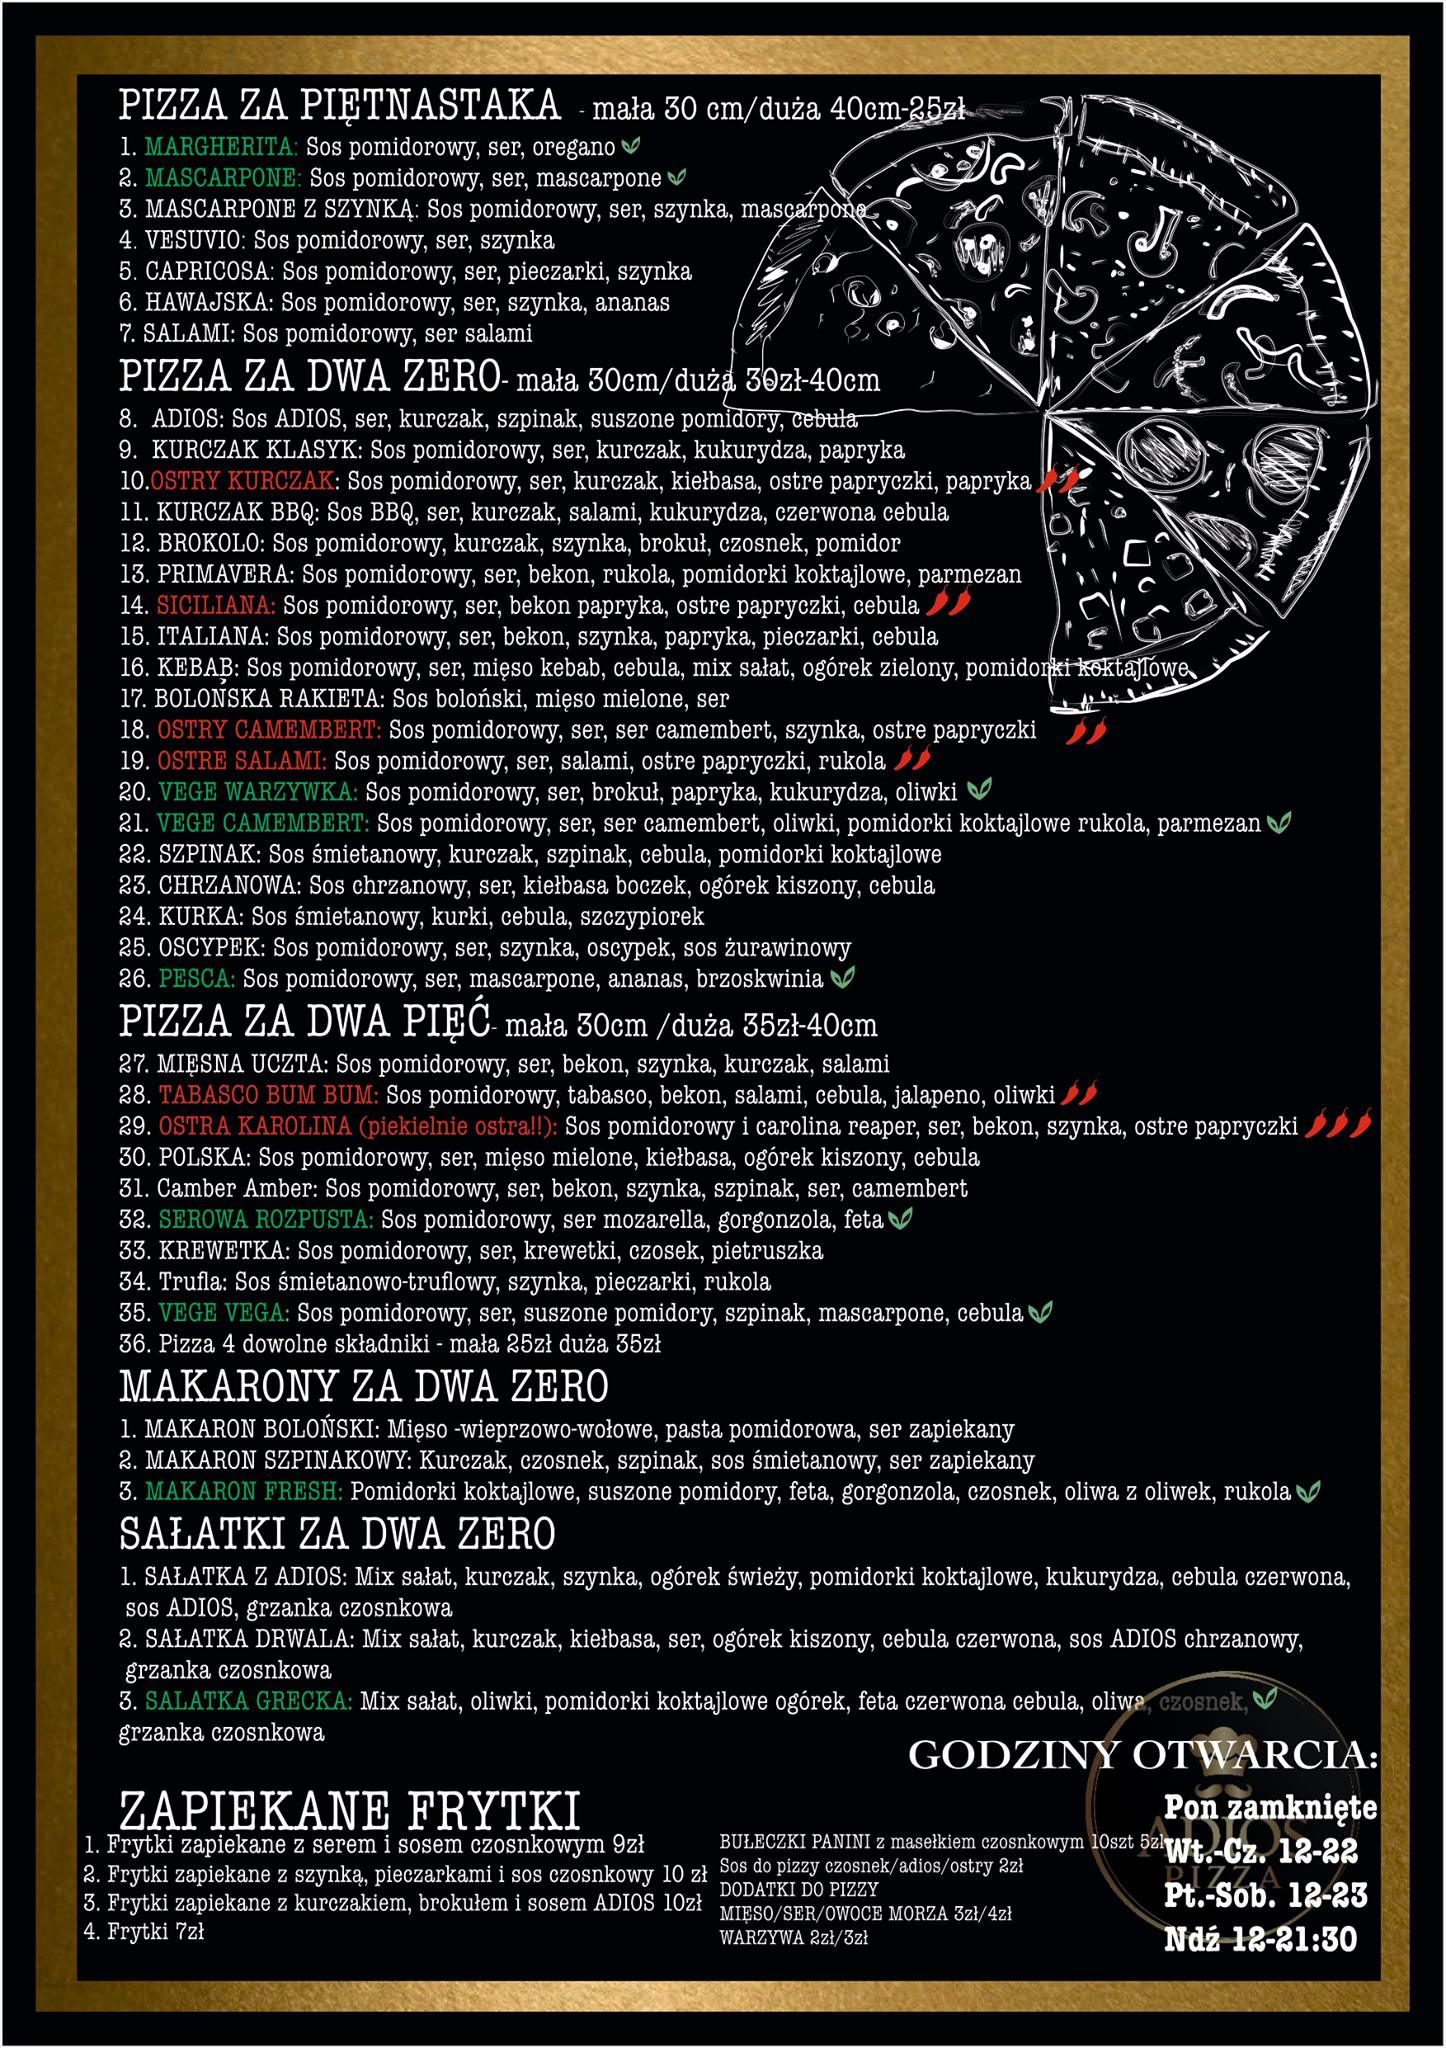
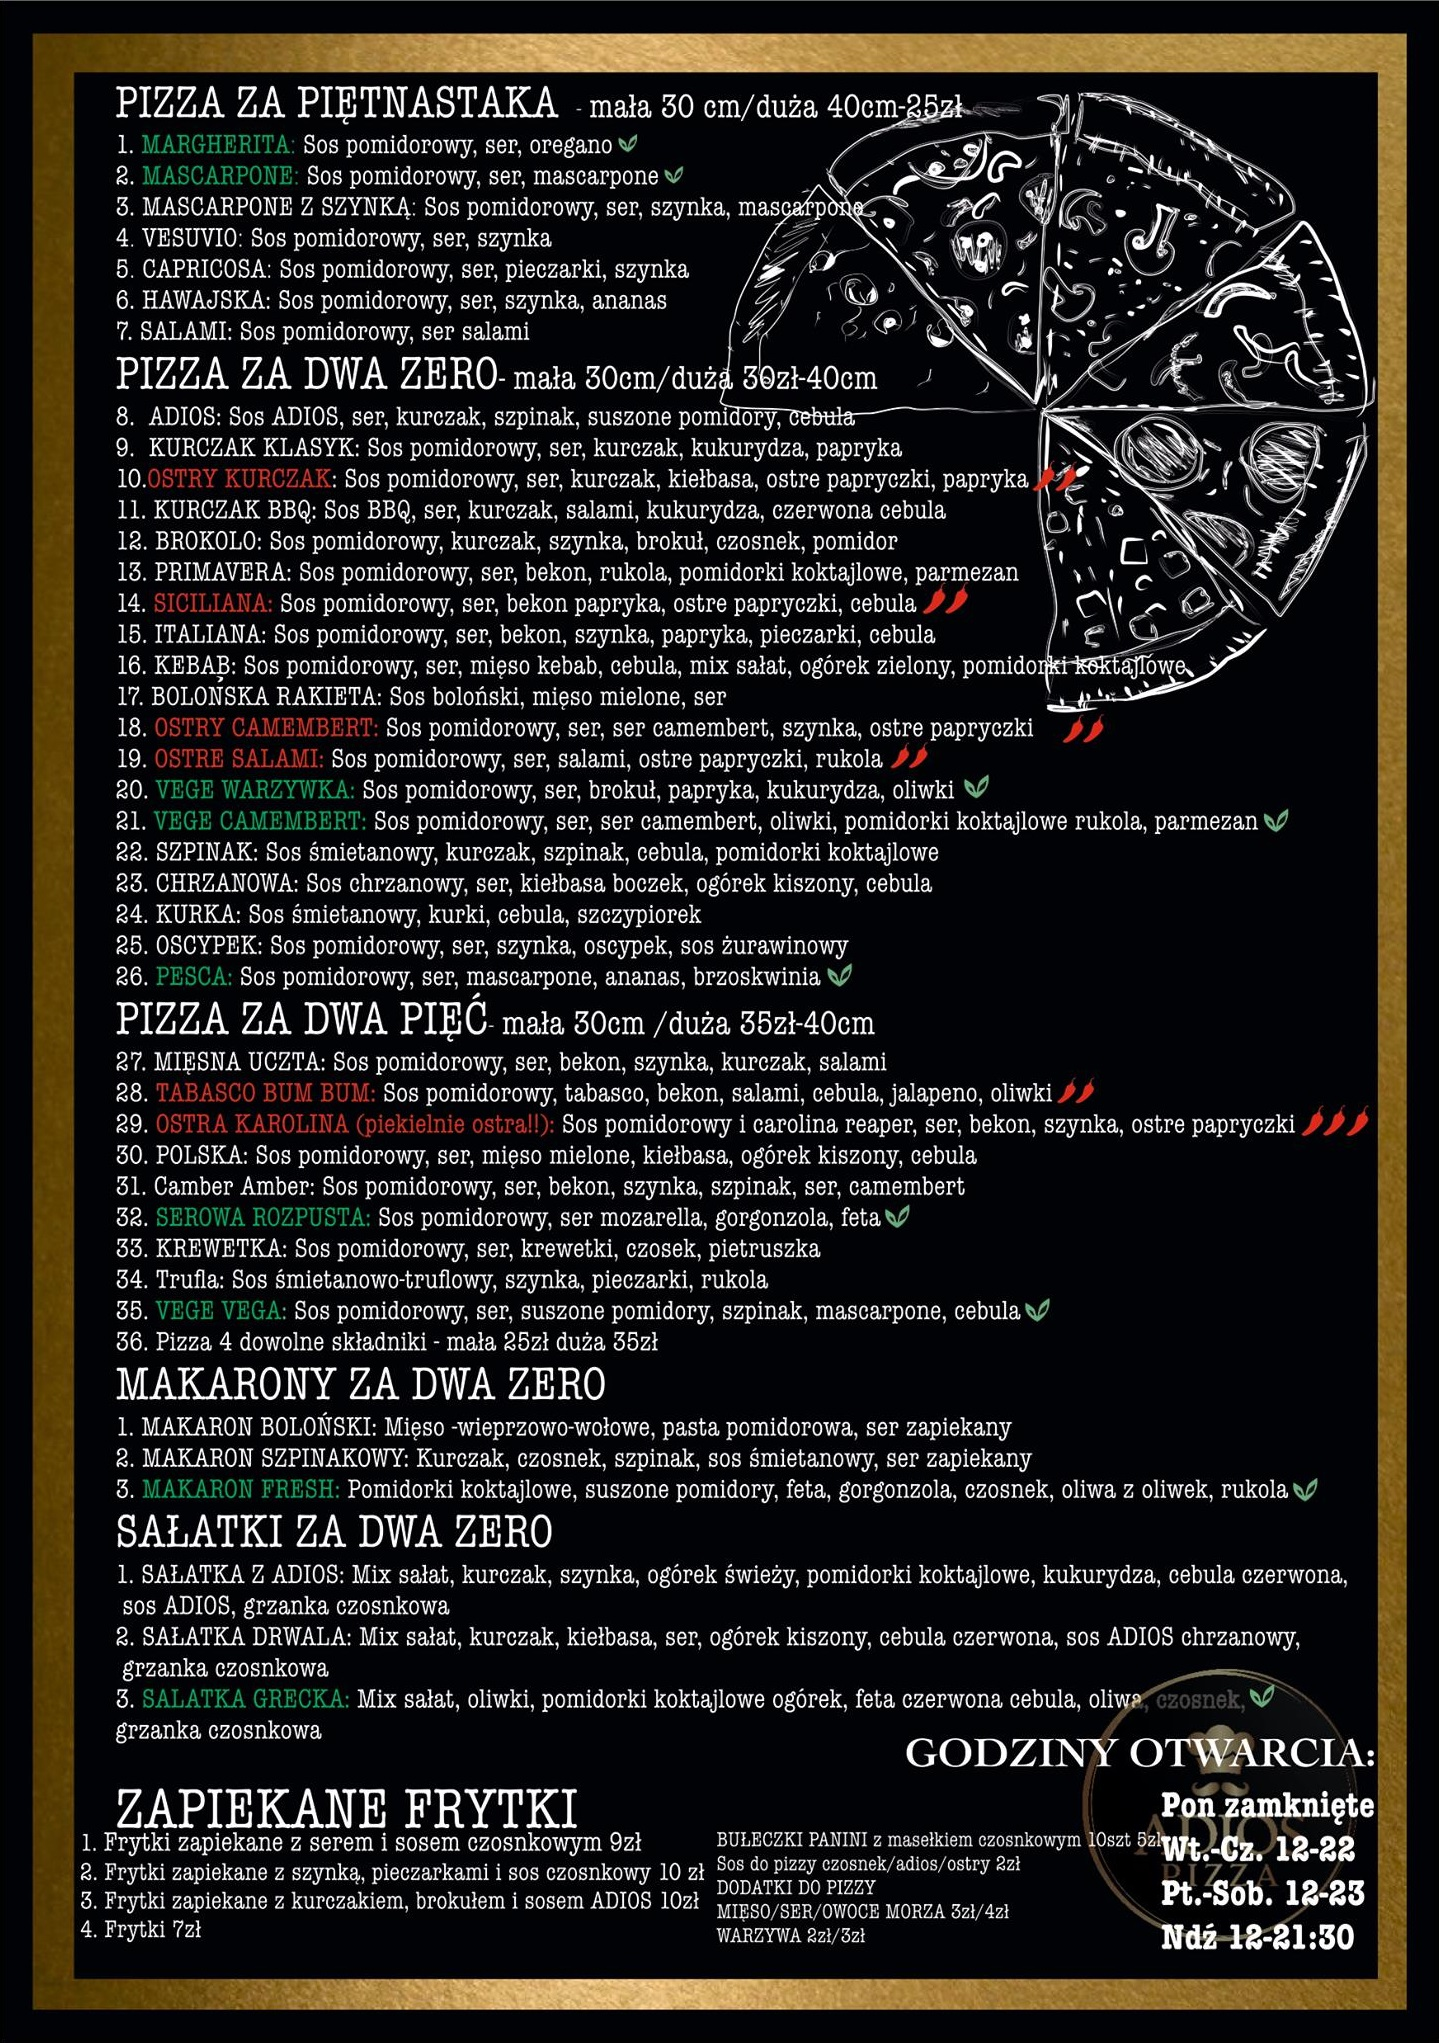
add menu

Changed region(s): [[0.0, 0.0, 1.0, 1.0]]

diff --git a/src/components/scss/_containerTransport.scss b/src/components/scss/_containerTransport.scss
@@ -2,7 +2,7 @@
   background-color: #151515;
   height: auto;
   width: 100vw;
-  margin: -1px auto 0;
+  margin: -5px auto 0;
   padding-bottom: 40px;
   display: block;
   text-align: center;
@@ -70,160 +70,53 @@ button:hover {
 
 @media all and (min-width: 500px) and (max-width: 800px) {
   .container-transport {
-    height: auto;
-    width: 100vw;
-    margin: -1px auto 0;
-    padding-bottom: 40px;
-    display: block;
-    text-align: center;
     span {
-      display: block;
-
-      color: rgb(224, 162, 68);
-      text-shadow: black 0.1em 0.1em 0.1em;
     }
     .text-transport {
-      font-family: "Caveat", cursive;
       font-size: 26px;
-      padding-top: 50px;
-      animation-name: example;
-      animation-duration: 2s;
-      position: relative;
     }
     .text-transport-citys {
       font-size: 35px;
-      font-weight: 900;
-      color: white;
-      font-family: "Lora", serif;
-      animation-name: example1;
-      animation-duration: 4s;
-      position: relative;
     }
   }
-
-  .container-photo-all {
-    img {
-      padding: 20px;
-      height: 200px;
-      width: 220px;
-      cursor: pointer;
-    }
-  }
-  .button-gallery {
-    margin-top: 20px;
-    color: white;
-    background-color: #e58b07;
-    width: 290px;
-    height: 30px;
-    font-size: 16px;
-    margin-left: 20px;
-    border: 1px solid gray;
-    border-radius: 4px;
-  }
+}
+.button-gallery {
+  margin-top: 20px;
+  width: 290px;
+  height: 30px;
+  font-size: 16px;
 }
 @media all and (min-width: 350px) and (max-width: 500px) {
   .container-transport {
-    height: auto;
-    width: 100vw;
-    margin: -1px auto 0;
-    padding-bottom: 40px;
-    display: block;
-    text-align: center;
     span {
-      display: block;
-
-      color: rgb(224, 162, 68);
-      text-shadow: black 0.1em 0.1em 0.1em;
     }
     .text-transport {
-      font-family: "Caveat", cursive;
       font-size: 22px;
-      padding-top: 50px;
-      animation-name: example;
-      animation-duration: 2s;
-      position: relative;
     }
     .text-transport-citys {
       font-size: 30px;
-      font-weight: 900;
-      color: white;
-      font-family: "Lora", serif;
-      animation-name: example1;
-      animation-duration: 4s;
-      position: relative;
-    }
-  }
-
-  .container-photo-all {
-    img {
-      padding: 20px;
-      height: 200px;
-      width: 220px;
-      cursor: pointer;
     }
   }
   .button-gallery {
-    margin-top: 20px;
-    color: white;
-    background-color: #e58b07;
     width: 240px;
     height: 28px;
     font-size: 12px;
-    margin-left: 20px;
-    border: 1px solid gray;
-    border-radius: 4px;
   }
 }
 @media all and (min-width: 200px) and (max-width: 350px) {
   .container-transport {
-    height: auto;
-    width: 100vw;
-    margin: -1px auto 0;
-    padding-bottom: 40px;
-    display: block;
-    text-align: center;
     span {
-      display: block;
-
-      color: rgb(224, 162, 68);
-      text-shadow: black 0.1em 0.1em 0.1em;
     }
     .text-transport {
-      font-family: "Caveat", cursive;
       font-size: 20px;
-      padding-top: 50px;
-      animation-name: example;
-      animation-duration: 2s;
-      position: relative;
     }
     .text-transport-citys {
       font-size: 28px;
-      font-weight: 900;
-      color: white;
-      font-family: "Lora", serif;
-      animation-name: example1;
-      animation-duration: 4s;
-      position: relative;
-    }
-  }
-
-  .container-photo-all {
-    img {
-      padding: 20px;
-      height: 200px;
-      width: 220px;
-      cursor: pointer;
     }
   }
   .button-gallery {
-    margin-top: 20px;
-    color: white;
-    background-color: #e58b07;
     width: 180px;
     height: 17px;
     font-size: 9px;
-    margin-left: 20px;
-    border: 1px solid gray;
-    border-radius: 4px;
   }
 }

diff --git a/src/components/scss/navigation/Rightnav.jsx b/src/components/scss/navigation/Rightnav.jsx
@@ -1,13 +1,7 @@
 import React from 'react';
-
 import styled from 'styled-components';
 
-import {BrowserRouter as Router, NavLink } from "react-router-dom";
-
-
 const UL = styled.ul `
-
-
 .scroll {
 
     text-decoration: none;
@@ -18,16 +12,11 @@ const UL = styled.ul `
     color: rgb(209, 105, 45);
     transition: 0.5s;
   }
-
     display: block;
     }
     @media (max-width: 660px) {
-
-
         .menu-hamburger {
-
         }
-
         padding-left: 0px;
         scroll-behavior: smooth;
         flex-flow: column nowrap;
@@ -54,8 +43,6 @@ const UL = styled.ul `
             list-style: none;
             margin: 13px 0.6vw;
             text-shadow: rgb(180, 151, 21) 0.1em 0.1em 0.1em;
-
-            
           }
           .scroll {
             text-decoration: none;
@@ -75,7 +62,6 @@ const UL = styled.ul `
             transition: 0.5s;
           }
     }
-
     .menu-burger {
         text-decoration: none;
         list-style: none;
@@ -93,8 +79,6 @@ const UL = styled.ul `
 const Rightnav = ({open, closeNavigation}) => {
 
     return (
-        <Router >
-
          <UL id="ocultars" open={open} >
              <div className="menu-hamburger">
 
@@ -103,8 +87,10 @@ const Rightnav = ({open, closeNavigation}) => {
                     <a className="scroll" href="#topmain">
                         START
                         </a>
-                    </li>
-                    <li ><NavLink className="menu-burger" to={"/menu"} >🍕MENU🍕</NavLink></li>
+                    </li>               
+                    <li >
+                      <a className="scroll" href="#menu" >🍕MENU🍕</a>
+                      </li>
                     <li>
                         <a className="scroll" href="#promotion">
                         PROMOCJE
@@ -123,9 +109,6 @@ const Rightnav = ({open, closeNavigation}) => {
                 </div>
             </div>
           </UL>
-
-
-        </Router >
     )
 }
 

diff --git a/src/App.js b/src/App.js
@@ -5,28 +5,23 @@ import ContainerInfo from "./components/ContainerInfo";
 import ContainerGallery from "./components/ContainerGallery";
 import Footer from "./components/Footer.js";
 import FooterInfo from "./components/FooterInfo.js";
-import { BrowserRouter as Router, Switch } from "react-router-dom";
+import Menu from "./components/Menu.js";
 import ContainerTransport from "./components/ContainerTransport";
 import ContainerPromotion from "./components/ContainerPromotion";
 
 function App() {
   return (
-    <Router>
+    <>
       <MainPages />
       <ContainerBody />
       <ContainerInfo />
+      <Menu />
       <ContainerPromotion />
       <ContainerGallery />
       <ContainerTransport />
       <Footer />
       <FooterInfo />
-      <Switch>
-        {/* <Route exact path="/" component={} />
-
-        <Route path="/login" component={} />
-        <Route path="/signup" component={} /> */}
-      </Switch>
-    </Router>
+    </>
   );
 }
 

diff --git a/src/components/MainPages.js b/src/components/MainPages.js
@@ -1,5 +1,4 @@
 import React from "react";
-import { BrowserRouter as NavLink } from "react-router-dom";
 import logo from "../img/logoprincipal.png";
 import Burger from "./scss/navigation/Burger";
 
@@ -16,9 +15,12 @@ const MainPages = () => {
                   START
                 </a>
               </li>
-              <li className="nav-menu">
-                🍕<NavLink to={"/"}> MENU</NavLink> 🍕
+              <li>
+                <a className="scroll" href="#menu">
+                  🍕MENU🍕
+                </a>
               </li>
+
               <li>
                 <a className="scroll" href="#promotion">
                   PROMOCJE

diff --git a/src/components/scss/_containerPromotion.scss b/src/components/scss/_containerPromotion.scss
@@ -2,7 +2,7 @@
   background-color: #151515;
   height: auto;
   width: 100vw;
-  margin: -1px auto 0;
+  margin: -5px auto 0;
   padding-bottom: 40px;
   display: block;
   text-align: center;
@@ -209,7 +209,7 @@ button:hover {
   .container-transport {
     height: auto;
     width: 100vw;
-    margin: -1px auto 0;
+
     padding-bottom: 40px;
     display: block;
     text-align: center;
@@ -268,7 +268,6 @@ button:hover {
   .container-transport {
     height: auto;
     width: 100vw;
-    margin: -1px auto 0;
     padding-bottom: 40px;
     display: block;
     text-align: center;

diff --git a/src/components/Menu.js b/src/components/Menu.js
@@ -1,0 +1,14 @@
+import React from "react";
+import menu from "../img/menu.jpg";
+
+const Menu = () => {
+  return (
+    <>
+      <div className="menu">
+        <img src={menu} alt="Adios Pizza" />
+      </div>
+    </>
+  );
+};
+
+export default Menu;

diff --git a/src/components/main.scss b/src/components/main.scss
@@ -9,6 +9,10 @@ body {
   overflow: overlay;
 }
 
+.menu img {
+  width: 100vw;
+}
+
 @import "./scss/mainPages";
 @import "./scss/containerBody";
 @import "./scss/containerInfo";
